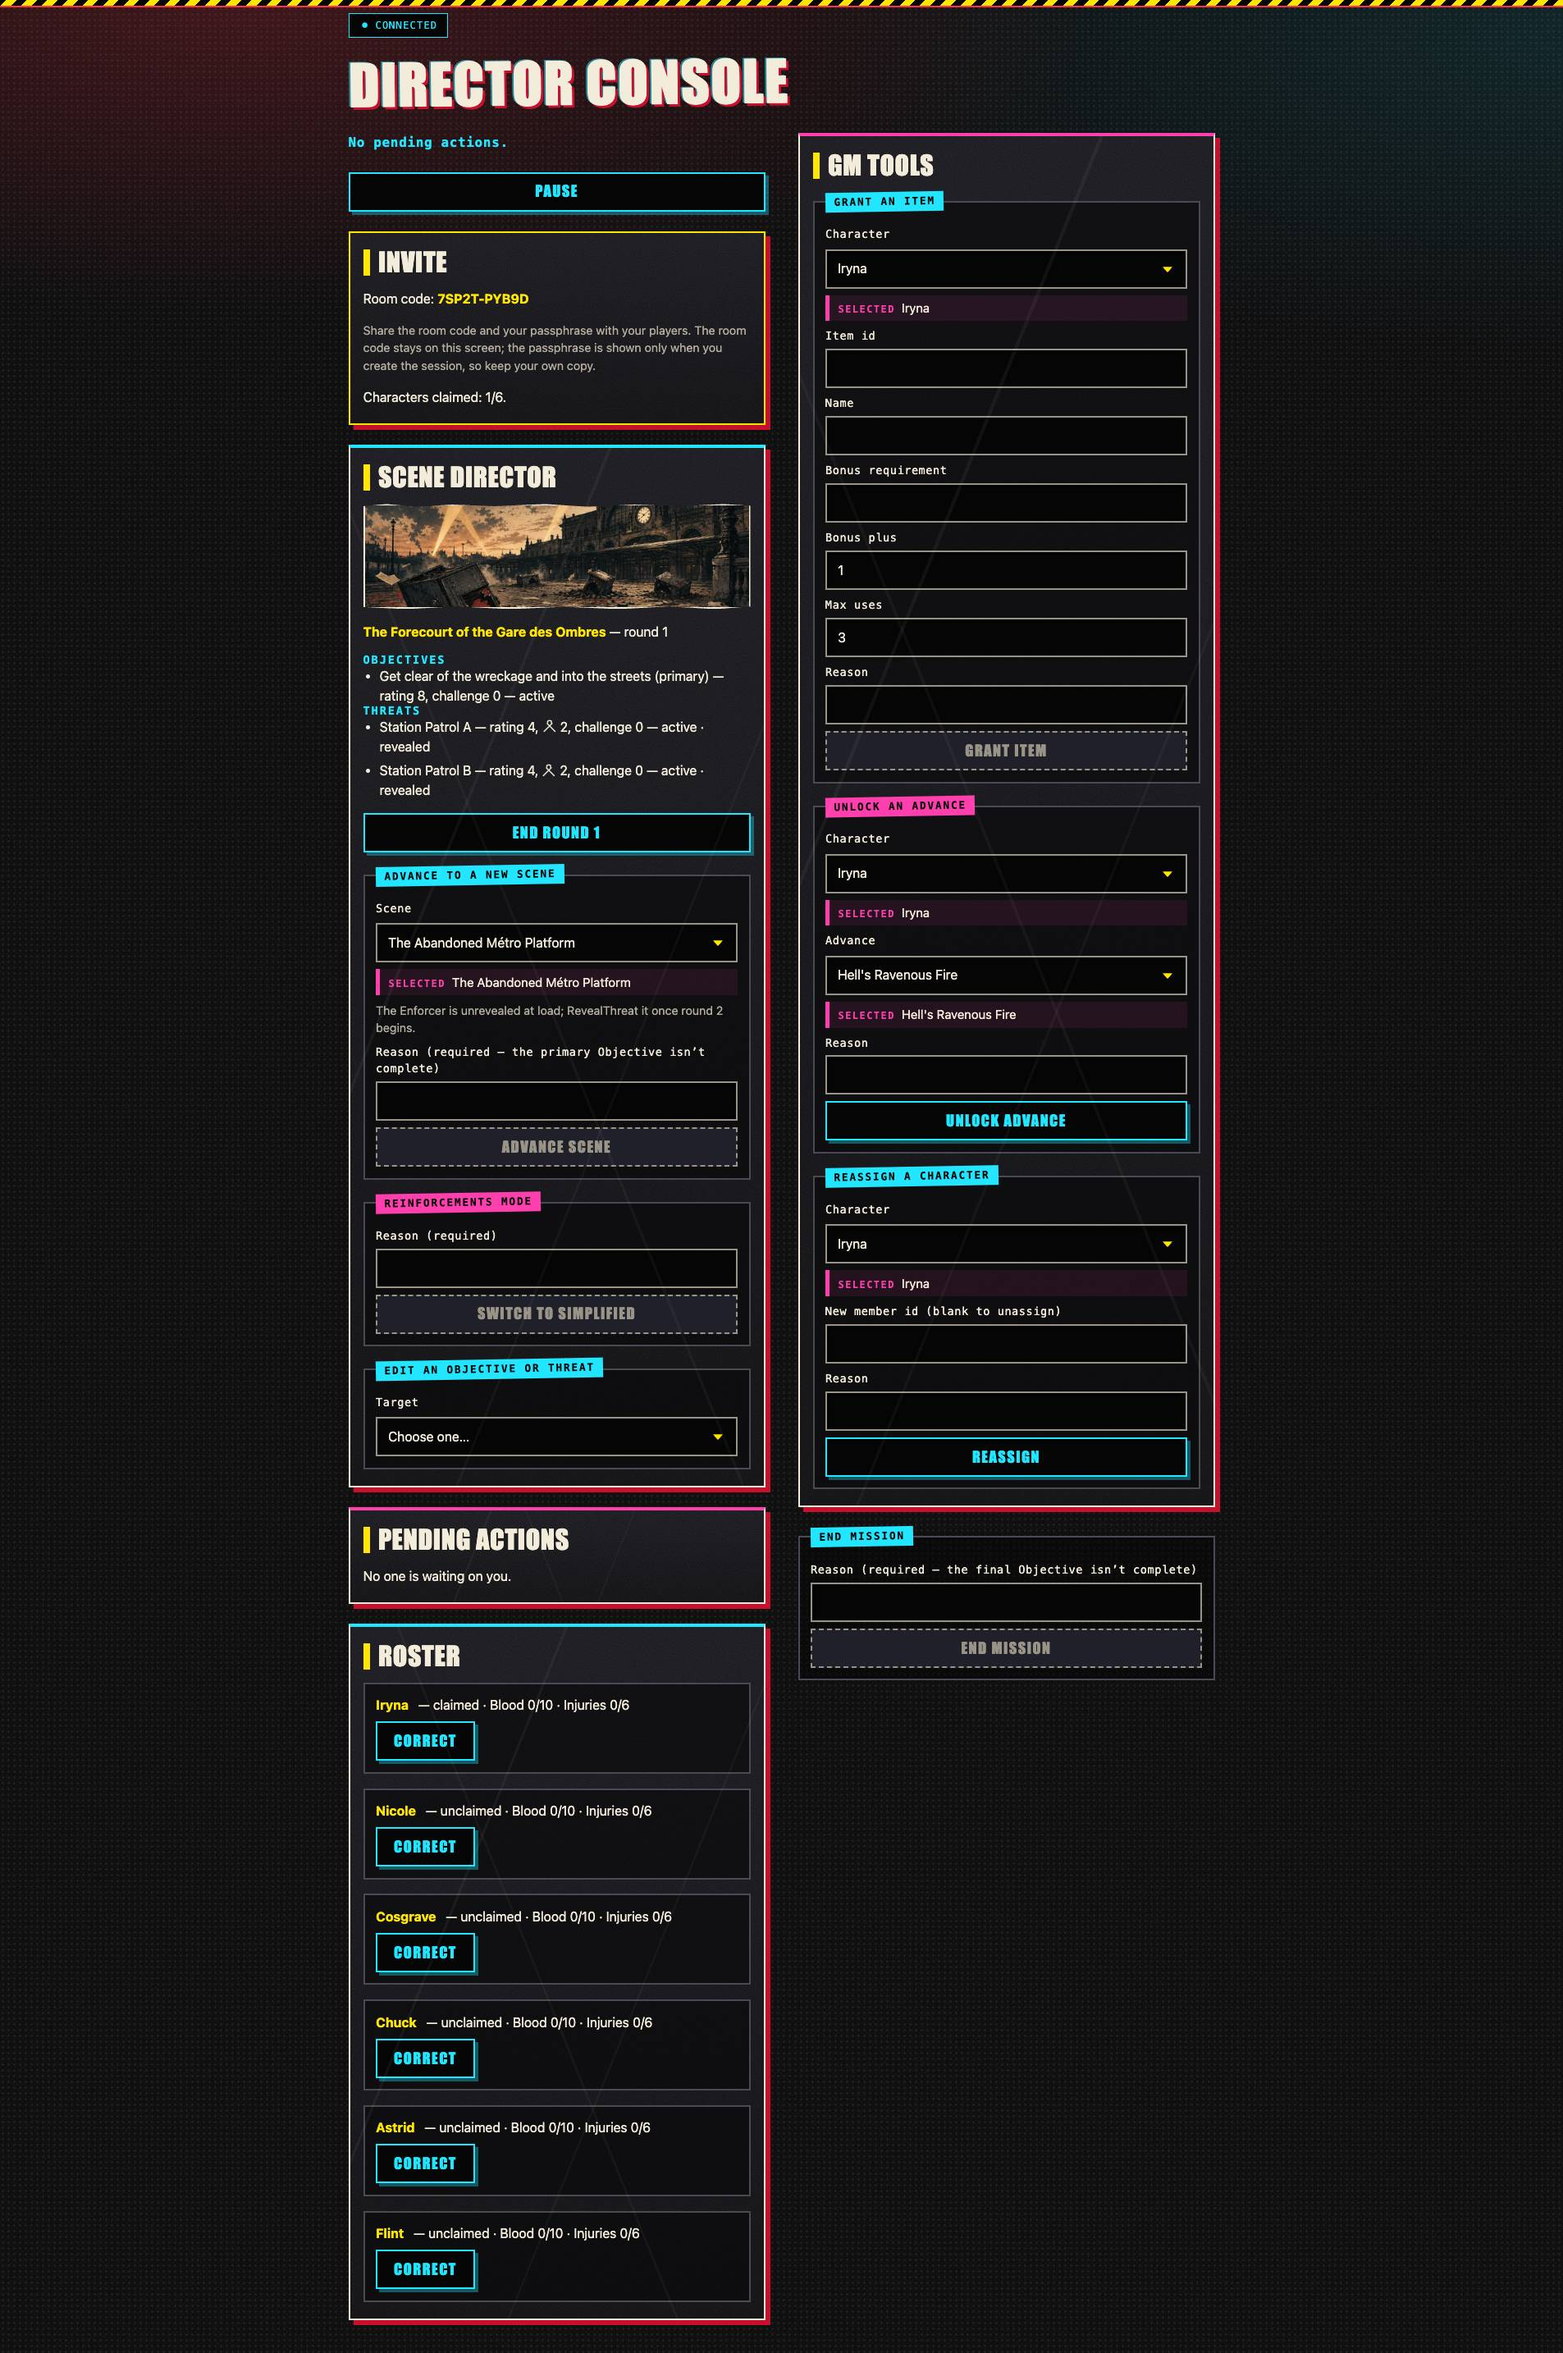
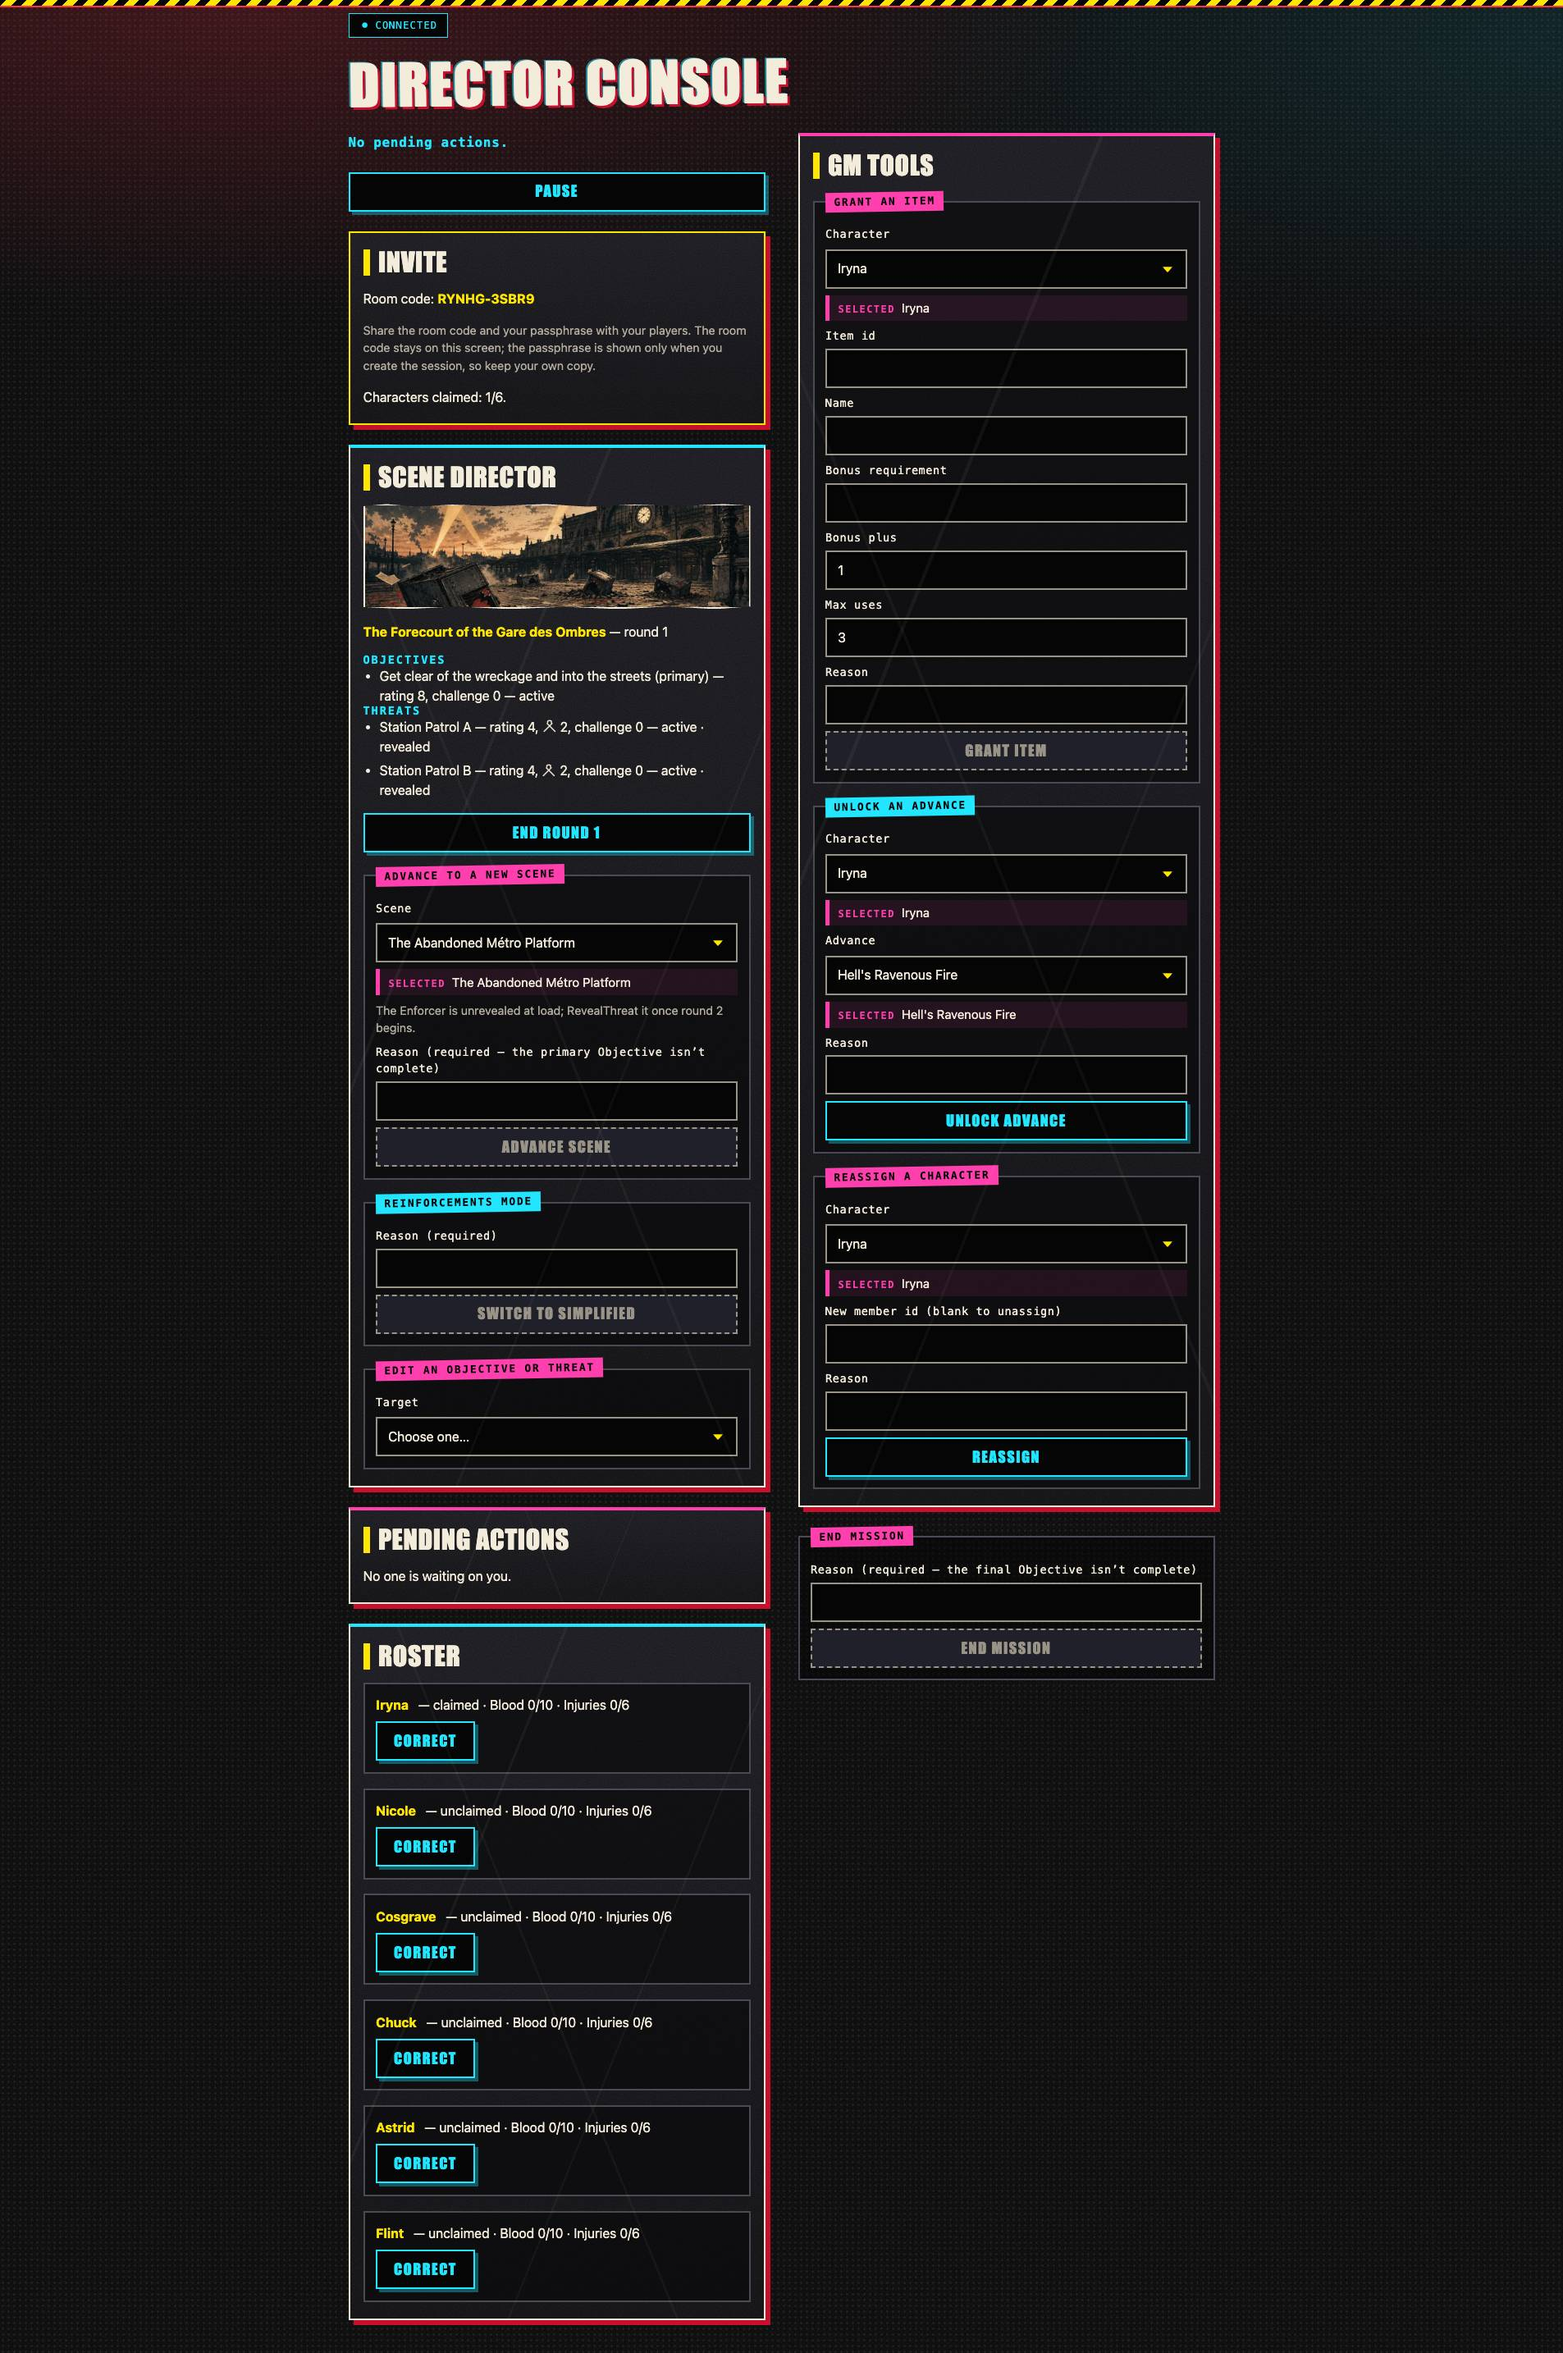
fix(web): resolve independent review of HE reskin; record evidence, review, handoff

diff --git a/apps/web/src/shared/SelectField.tsx b/apps/web/src/shared/SelectField.tsx
@@ -20,8 +20,8 @@ export interface SelectFieldProps {
  * desktop), so the list itself can never clip off-screen. What we own is the *closed* control, and
  * there a long label is ellipsised to keep the control inside a 320 px viewport ("The Abandoned
  * Métro Platf…"). The echo keeps the selected value readable and wraps, so the person never has to
- * reopen the picker to learn what is selected. It is `aria-describedby` text, not a live region:
- * the select itself already announces its value.
+ * reopen the picker to learn what is selected. It is `aria-hidden` visual help, not a description or live region: the select itself already
+ * announces its value, and describing it would read the value twice.
  */
 export function SelectField({
   id,
@@ -35,14 +35,19 @@ export function SelectField({
   return (
     <>
       <label htmlFor={id}>{label}</label>
-      <select id={id} value={value} onChange={onChange} aria-describedby={echoId}>
+      <select id={id} value={value} onChange={onChange}>
         {options.map((option) => (
           <option key={option.value} value={option.value}>
             {option.label}
           </option>
         ))}
       </select>
-      <p id={echoId} className="select-echo" hidden={selected === undefined || value === ""}>
+      <p
+        id={echoId}
+        className="select-echo"
+        aria-hidden="true"
+        hidden={selected === undefined || value === ""}
+      >
         <span className="select-echo-tag">Selected</span> {selected?.label}
       </p>
     </>

diff --git a/apps/web/test/styles/reskinContract.test.ts b/apps/web/test/styles/reskinContract.test.ts
@@ -335,6 +335,14 @@ describe("reskin stylesheet contract", () => {
       expect(
         declaration(rulesFor(/^\.step::after,\s*\.scene-card::after$/s), "pointer-events"),
       ).toEqual(["none"]);
+      expect(
+        declaration(rulesFor(/^\.step,\s*\.scene-card,\s*\.landing-resume/s), "position"),
+      ).toEqual(["relative"]);
+      expect(declaration(rulesFor(/^\.select-echo-tag$/), "color")).toEqual(["var(--pink)"]);
+      expect(declaration(rulesFor(/^fieldset:nth-child\(even\) > legend$/), "background")).toEqual([
+        "var(--pink)",
+      ]);
+      expect(declaration(rulesFor(/^html$/), "scroll-padding-top").length).toBeGreaterThan(0);
       // The echo's tag is pink text over a ~9% pink wash on the panel ink; the wash is lighter than
       // --ink-2, so also pin the worst plausible backdrop (--ink-3).
       expect(contrast("pink", "ink-3")).toBeGreaterThanOrEqual(4.5);

diff --git a/apps/web/src/styles.css b/apps/web/src/styles.css
@@ -1680,6 +1680,11 @@ details ul {
    background: it never changes a control's box, never animates, and every text/ink pairing used
    here was chosen >= 4.5:1 (pinned numerically in test/styles/reskinContract.test.ts). */
 
+html {
+  /* Keep focused controls clear of the fixed hazard-stripe masthead (WCAG 2.4.11). */
+  scroll-padding-top: 1.25rem;
+}
+
 body::before {
   content: "";
   position: fixed;
@@ -1703,8 +1708,8 @@ h1 {
   border-top-color: var(--pink);
 }
 
-.step:nth-of-type(even),
-.scene-card:nth-of-type(even) {
+.step:nth-child(even),
+.scene-card:nth-child(even) {
   border-top-color: var(--cyan);
 }
 
@@ -1732,7 +1737,7 @@ h1 {
     );
 }
 
-fieldset:nth-of-type(even) > legend {
+fieldset:nth-child(even) > legend {
   background: var(--pink);
 }
 

diff --git a/apps/web/test/shared/SelectField.test.tsx b/apps/web/test/shared/SelectField.test.tsx
@@ -33,11 +33,13 @@ describe("SelectField", () => {
     expect(screen.getAllByRole("option")).toHaveLength(3);
   });
 
-  it("echoes the full selected label, associated through aria-describedby", () => {
+  it("echoes the full selected label visually, without making assistive tech read it twice", () => {
     render(<Harness />);
     const select = screen.getByLabelText("Scene");
-    const echo = document.getElementById(select.getAttribute("aria-describedby") ?? "");
+    expect(select).not.toHaveAttribute("aria-describedby");
+    const echo = document.getElementById("pick-selected");
     expect(echo).not.toBeNull();
+    expect(echo).toHaveAttribute("aria-hidden", "true");
     expect(echo?.textContent).toContain(LONG);
     expect(echo).toBeVisible();
   });

diff --git a/docs/reviews/2026-10-07-he-reskin-independent-review.md b/docs/reviews/2026-10-07-he-reskin-independent-review.md
@@ -1,0 +1,40 @@
+# HE reskin pass: independent review
+
+- **Date:** 2026-10-07
+- **Branch:** `sonnet-he/reskin-orchestrated-20261007` (from `b599abd`, which already contains the 2026-09-18 ink-black reskin and `SheetDialog`)
+- **Reviewed:** commit `1907b32`; remediation in the following commit
+- **Reviewer:** one fresh read-only Claude agent with no access to the author's reasoning. Its attempted mutation tests never ran (BSD `sed`, no `timeout`), so the test-strength findings are by reading, not by mutation. Re-running mutations remains open.
+- **Verdict:** no High findings; two Medium and four Low/Nit findings, all remediated or recorded below.
+
+## What changed
+
+- **Riot-print layer** (`styles.css`): hazard-stripe masthead (`body::before`, below the sheet backdrop, click-through), cyan/riot misregistered heading shadow, pink/cyan alternating panel tops and legends, faint scratch overlay on panels. Original CSS only; no new art.
+- **`SelectField`**: the six GM `<select>`s keep the native OS picker (it can never clip off-screen) and gain a visible, wrapped echo of the full selected label, because the closed control ellipsises ("The Abandoned Métro Platf…").
+- **Option rows**: "Mark and regain Blood" moved out of the checkbox `<label>` into a `.gear-row` sibling that wraps to its own full-width line. Before, it was squeezed into a narrow column inside the label.
+- **Audit** (`ui-audit.mjs`): fixed the stale "Rook" roster lookup (the pre-existing audit aborted before the modal checks on the sourcebook roster); added echo and option-row checks to every state, and a keyboard-open focus sweep over every text field and select on the GM console and join form at 320/375/812 wide.
+- Engine, authorization, projection and template code are untouched.
+
+## Findings and resolution
+
+| ID  | Sev    | Finding                                                                                                    | Resolution                                                                                                                                  |
+| --- | ------ | ---------------------------------------------------------------------------------------------------------- | ------------------------------------------------------------------------------------------------------------------------------------------- |
+| 1   | Medium | `aria-describedby` to the echo made screen readers read the value twice, or "Selected Choose one…" when hidden | Echo is `aria-hidden` visual help, `aria-describedby` removed; test asserts both                                                          |
+| 2   | Medium | `:nth-of-type(even)` alternation counted by element type, not by position                                    | Switched to `:nth-child(even)`; contract test pins the selector                                                                             |
+| 3   | Low    | Fixed masthead could cover focus rings at the top edge (WCAG 2.4.11)                                        | `html { scroll-padding-top: 1.25rem }`; keyboard sweep now requires focused fields to sit at least 8 px below the top                        |
+| 4   | Low    | Contrast test pinned tokens, not the actual rules                                                          | Test asserts the declared `color`/`background` of the echo tag and legend; reviewer's computed values: 5.13, 5.05, 6.38, 13.9 : 1             |
+| 5   | Low    | Overlay safety (`position: relative`) unasserted                                                           | Asserted                                                                                                                                    |
+| 6   | Low    | Audit false-pass risks: tautological top check, viewport left shrunk, unchecked echo claim                | Top-edge floor, viewport restored after the sweep, echo found by id and checked for visibility, bounds and full label. `truncatedSelects` is recorded only (selects do not report overflow reliably) |
+| 7   | Nit    | Checkbox might shrink at 200% text                                                                         | The checkbox rule already has `flex: none`; not reproduced                                                                                  |
+
+## Verification (after remediation)
+
+- `npm run check`: exit 0 (see handoff for counts); `npm run build`: exit 0.
+- `ui-audit.mjs`: 150 states, 1,434 controls, zero control issues, zero overflow states, zero hard axe violations, zero failures. The one best-practice `page-has-heading-one` on the intentional nonexistent-room route is unchanged. The 320 px + 200 % text sheet geometry stays recorded as non-gating, as before.
+- `two-device-smoke.mjs --reload`: all 17 GM/player/table steps passed.
+- Emulator suites (from a throwaway port-remapped copy, because peer lanes hold the default ports): 18 + 86 + 4 tests passed.
+- Evidence: `docs/evidence/sonnet-he-reskin/{before,after}` (curated screenshots and `report.json`), `e2e-playthrough/report.json`.
+
+## Limits (not hidden)
+
+- No physical phone and no real iOS Safari pass: headless Chrome cannot shrink only the visual viewport, so the keyboard sweep emulates Chrome Android behaviour (layout viewport shrinks). Native selects are OS pickers on phones and were therefore audited at the closed control, not the popup.
+- No Firebase deploy, merge, or production resource was touched.

diff --git a/CLAUDE_HANDOFF.md b/CLAUDE_HANDOFF.md
@@ -1,6 +1,7 @@
 # Claude implementation handoff
 
 - **Status:** The six playable character sheets now match the owner-supplied sourcebook roster (Iryna, Nicole, Cosgrave, Chuck, Astrid, and Flint), including equipment, abilities, advances, injuries, Last Stands, ability bonuses, and typed utility-item behavior. Commit `5e8907b` is deployed to Firebase Hosting and all five callable Functions at <https://digitable.signal-bleed.com>. A fresh-room live smoke passed all 17 GM/player/table steps after the Functions update. Physical-device evidence remains open for John.
+- **HE reskin pass (2026-10-07, `sonnet-he/reskin-orchestrated-20261007`, unmerged, undeployed):** riot-print CSS layer, `SelectField` full-label echo for the six GM selects, option-row action wrap, and an extended real-browser audit (echo/option-row checks, keyboard-open focus sweep, fixed stale "Rook" lookup). Independently reviewed and remediated: [`docs/reviews/2026-10-07-he-reskin-independent-review.md`](docs/reviews/2026-10-07-he-reskin-independent-review.md); evidence in `docs/evidence/sonnet-he-reskin/`. Gates: check exit 0, build exit 0, UI audit 150 states 0 failures, two-device smoke 17/17, emulator suites 18+86+4 (port-remapped copy). Open: physical iPhone/Android pass; mutation re-run of the reviewer's test-strength points. Sibling reskin branches exist on origin; none were merged here.
 - **Branch:** `factory/today-integration` (worktree `.claude/worktrees/today-integration`; consolidated staging candidate through the 2026-09-18 polish and reskin integration).
 - **PRs:** [#13](https://github.com/JohnWainee/DigitTable/pull/13) (admission boundary), [#15](https://github.com/JohnWainee/DigitTable/pull/15) (A02 contracts), [#18](https://github.com/JohnWainee/DigitTable/pull/18) (A03 createRoom), [#23](https://github.com/JohnWainee/DigitTable/pull/23) (A04 game commands), [#27](https://github.com/JohnWainee/DigitTable/pull/27) (A05 client repository), [#30](https://github.com/JohnWainee/DigitTable/pull/30) (A06 partial: seat recovery), [#32](https://github.com/JohnWainee/DigitTable/pull/32) (A07 partial: region fix + operations runbook, stacked on the other six — see that PR's description for the stacking note). All open, none merged; merge authority is John's.
 - **Last updated:** 2026-09-19 by Codex after the sourcebook-roster implementation and independent review
